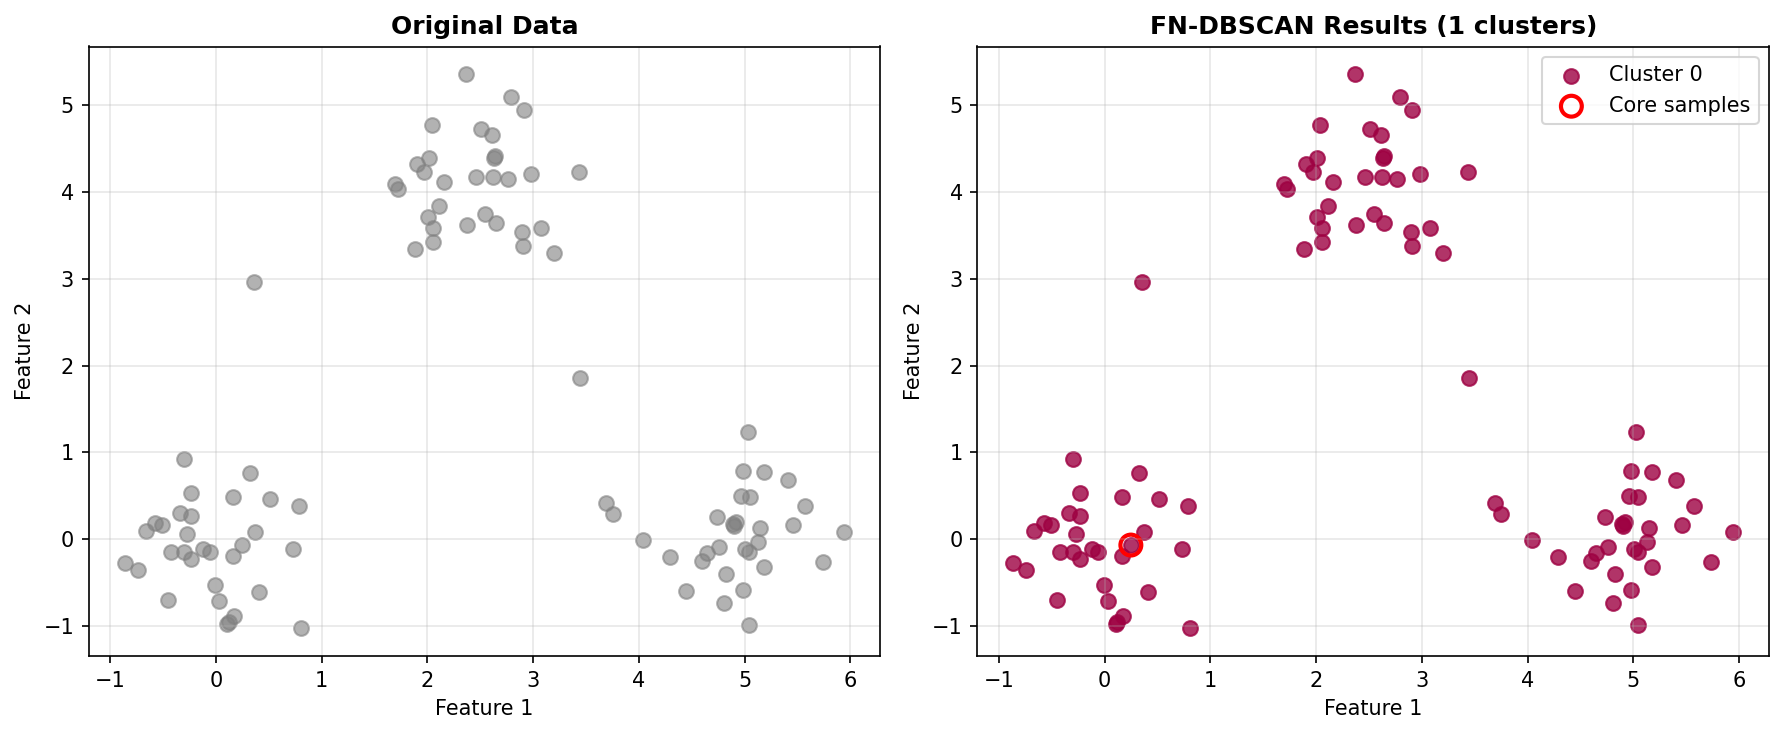
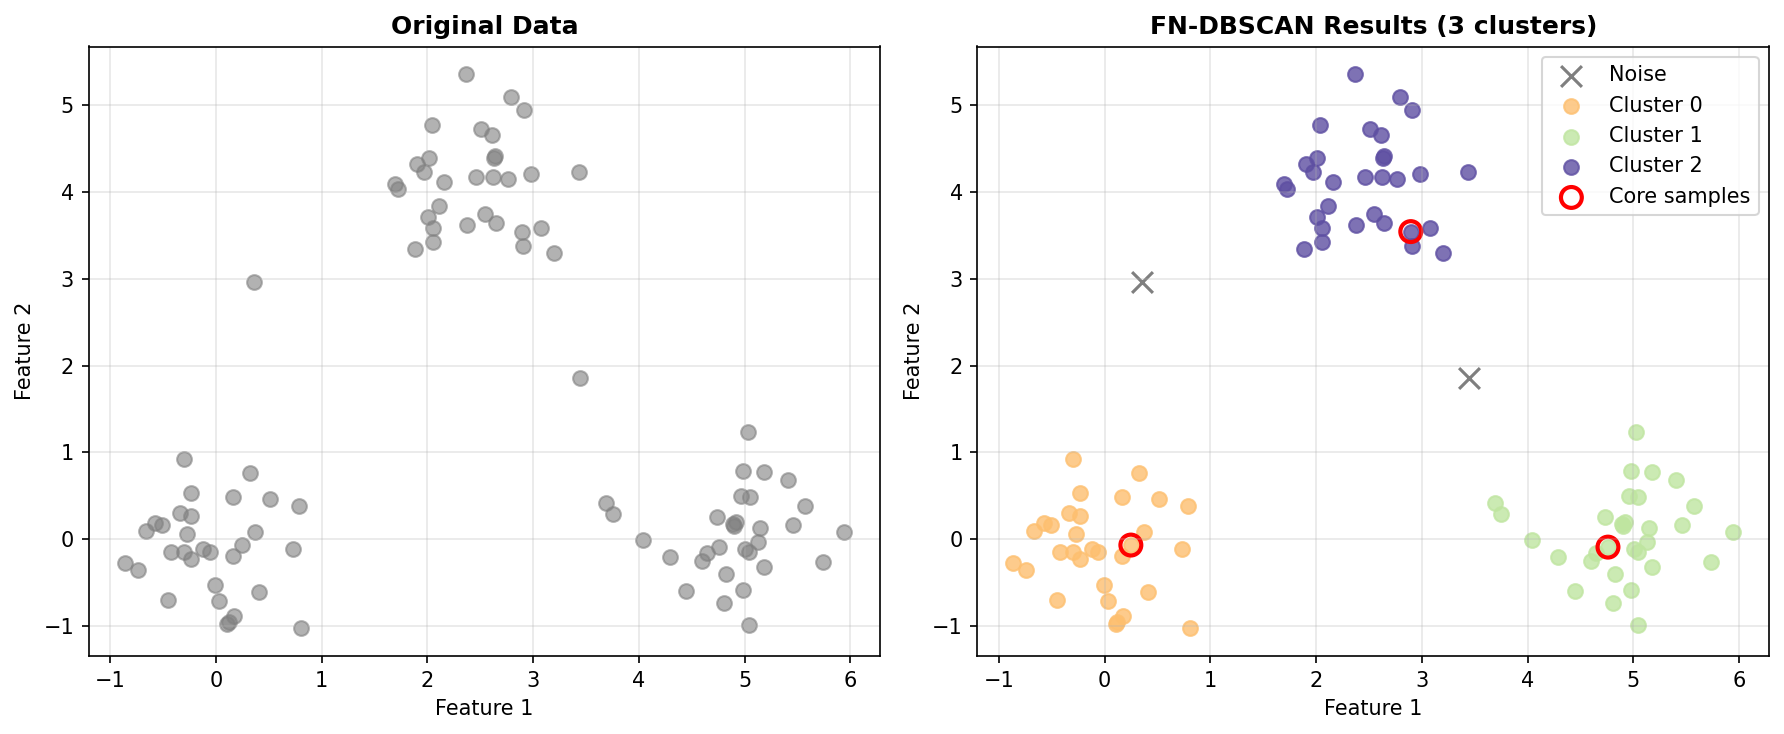
Update example parameters and regenerate visualization
- Adjusted eps from 0.5 to 0.15 for better clustering
- Updated min_fuzzy_neighbors from 3 to 5
- Regenerated clustering visualization

🤖 Generated with [Claude Code](https://claude.com/claude-code)

diff --git a/examples/basic_example.py b/examples/basic_example.py
@@ -45,9 +45,9 @@ def main():
     # Create and fit FN-DBSCAN model
     print(f"\nFitting FN-DBSCAN...")
     model = FN_DBSCAN(
-        eps=0.5,
+        eps=0.15,
         min_membership=0.0,
-        min_fuzzy_neighbors=3,
+        min_fuzzy_neighbors=5,
         fuzzy_function='exponential',
         normalize=True
     )
